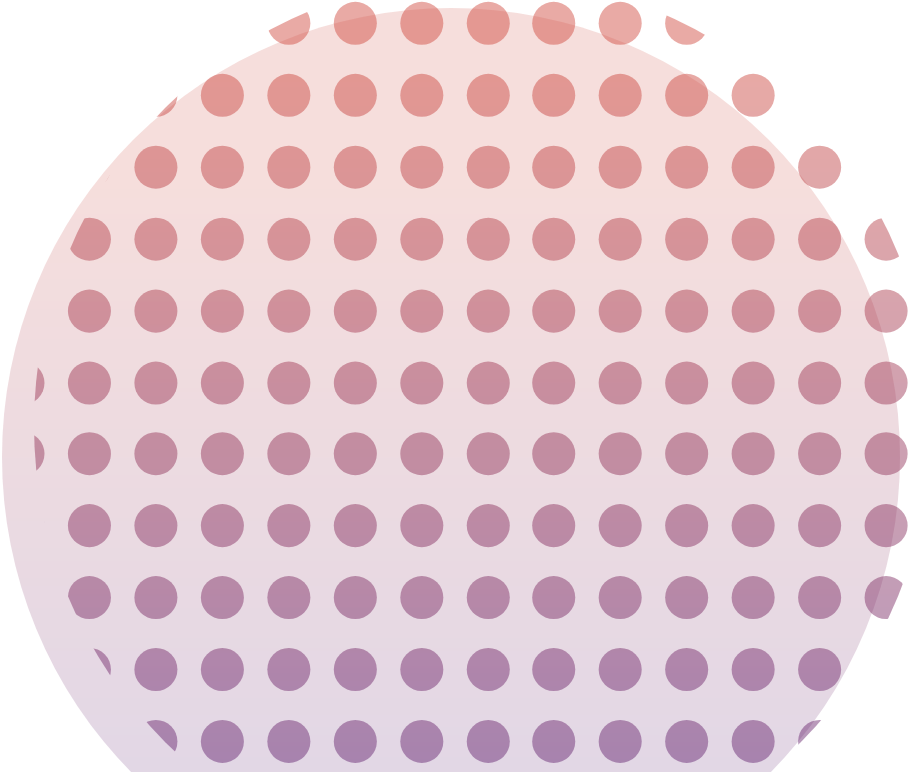
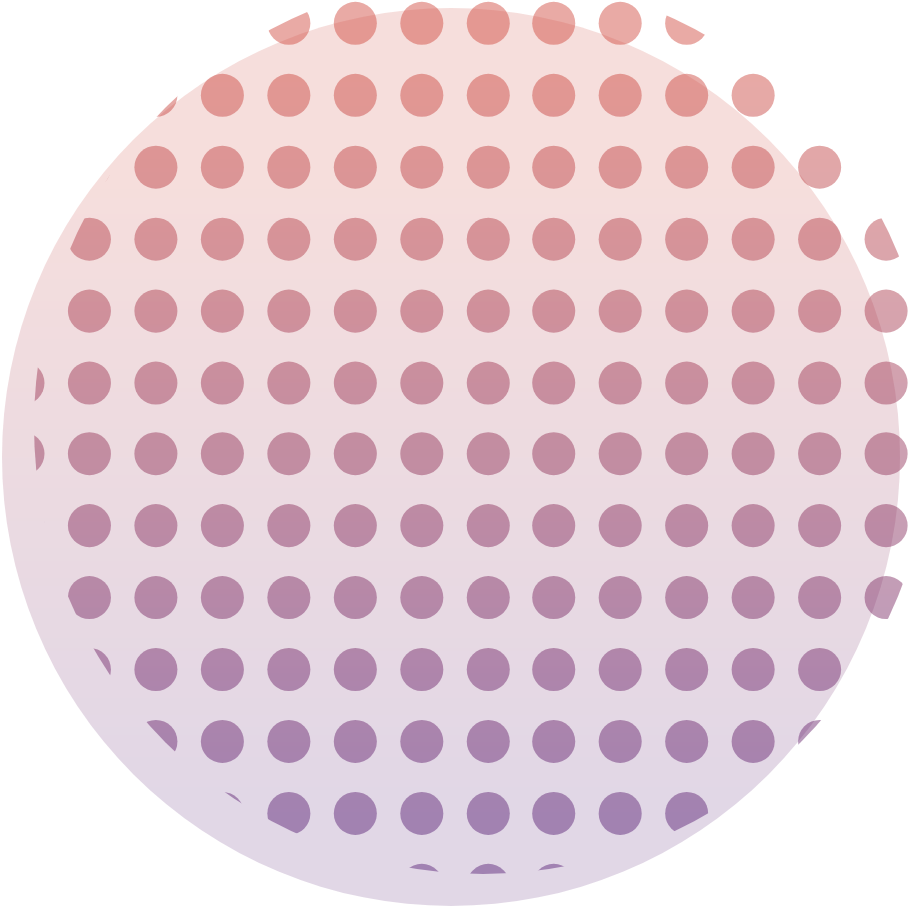
header center

diff --git a/css/style.css b/css/style.css
@@ -151,23 +151,27 @@ nav li{
 
 /* header ::content */
 .con_hcenter{
-    height: 510px;
+    width: 81vw;
+    min-width: 645px;
+    height: 26vw;
+    min-height: 240px;
     display: flex;
     justify-content: center;
     align-items: center;
     margin-top: -60px;
 }
 .img_linede{
-    width: 50px;
+    width: 3.2%;
 }
 .con_hccontent{
-    width: 1455px;
-    height: 510px;
+    width: 93.6%;
+    height: 26vw;
+    min-height: 240px;
     border:1px solid white;
     display: flex;
     flex-direction: column;
     align-items: center;
-    justify-content: center;
+    justify-content: flex-start;
 }
 .img_rlinede{
     align-self: flex-end;
@@ -177,38 +181,45 @@ nav li{
 }
 .img_hclogo_bg{
     position: absolute;
-    width: 1350px;
+    width: 70.3vw;
+    min-width: 557px;
+    top:480px;
+    transform: translateY(-45%);
 }
-.t_hc{
-    height: 10%;
+.t_hc{    
+    margin-top: 1.75vw;
     font-size: 26px;
     letter-spacing: 3px;
     text-align: center;
 }
 .con_hclogo{
-    width: 745px;
-    height: 90%;
+    margin-top: 6vw;
+    width: 51.3%;
+    min-width: 353px;
+    height: 15vw;
     display: grid;
-    grid-template-rows: 80% auto;
-    grid-row-gap: 20px;
+    grid-template-rows: 75% auto;
+    grid-row-gap: 1.5vw;
     align-items: end;
 }
 .img_hclogo{
-    width: 650px;
+    width: 34vw;
+    min-width: 327px;
 }
 .img_hclogoline{
-    width: 664px;
+    width: 34.58vw;
+    min-width: 350px;
     align-self: start;
     justify-self: end;
 }
 .img_wave{
     position: absolute;
     width: 100%;
-    bottom: 0;
-    transform: translateY(60%);
+    top: 1080px;
+    transform: translateY(-100%);
 }
 .img_harrow{
     position: absolute;
     width: 35px;
-    bottom: -125px;
+    top: 1035px;
 }
